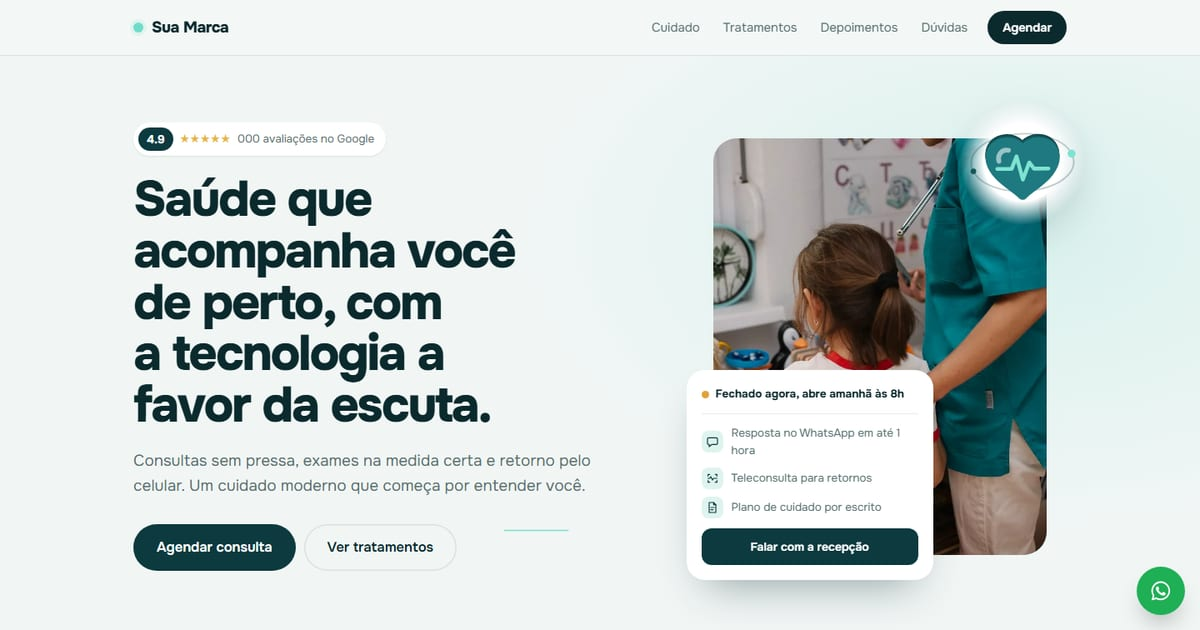
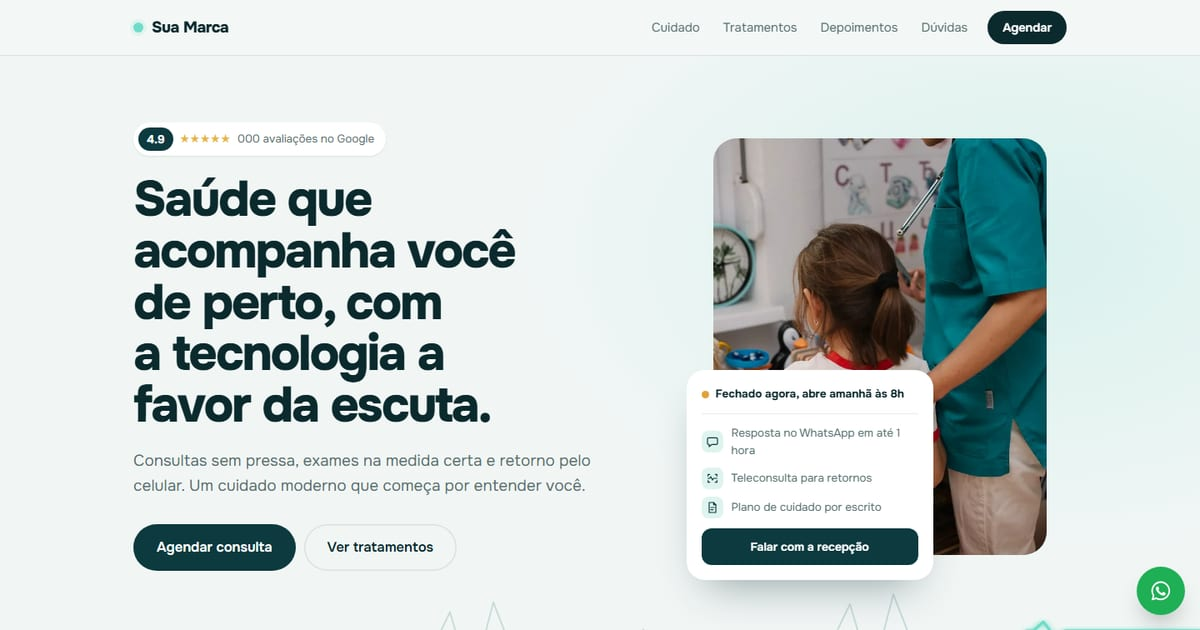
Topo: monitor cardíaco animado no lugar do coração 3D

Changed region(s): [[0.8017, 0.181, 0.8942, 0.3619], [0.8325, 0.9651, 1.0, 1.0], [0.4317, 0.8143, 0.4625, 0.8444]]

diff --git a/app/app.vue b/app/app.vue
@@ -98,7 +98,9 @@ const mover = (dir: number) => trilho.value?.scrollBy({ left: dir * (trilho.valu
       <!-- HERO -->
       <section class="hero">
         <svg class="pulse" viewBox="0 0 1440 220" preserveAspectRatio="none" aria-hidden="true">
-          <path d="M0 130 H420 l26-64 34 128 30-150 26 86 H760 l18-30 22 44 18-14 H1440" />
+          <defs><filter id="brilho" x="-5%" y="-50%" width="110%" height="200%"><feGaussianBlur stdDeviation="4" result="b" /><feMerge><feMergeNode in="b" /><feMergeNode in="SourceGraphic" /></feMerge></filter></defs>
+          <path class="pulse-base" pathLength="1000" d="M0 130 H300 l14-20 14 34 12-14 H520 l20-70 26 150 26-170 22 96 16-22 H760 l12-18 14 30 12-12 H1000 l20-70 26 150 26-170 22 96 16-22 H1240 l12-18 14 30 12-12 H1440" />
+          <path class="pulse-traco" pathLength="1000" filter="url(#brilho)" d="M0 130 H300 l14-20 14 34 12-14 H520 l20-70 26 150 26-170 22 96 16-22 H760 l12-18 14 30 12-12 H1000 l20-70 26 150 26-170 22 96 16-22 H1240 l12-18 14 30 12-12 H1440" />
         </svg>
         <div class="wrap hero-grid">
           <div class="hero-copy">
@@ -112,7 +114,6 @@ const mover = (dir: number) => trilho.value?.scrollBy({ left: dir * (trilho.valu
           </div>
           <div class="hero-card">
             <img class="ph ph-portrait hero-img" :src="`${base}fotos/acompanhamento.webp`" width="1200" height="801" alt="Profissional de saúde atendendo uma criança acompanhada da mãe" fetchpriority="high">
-            <div class="hero-3d" title="Arraste para girar"><Icone3D tipo="coracao" /></div>
             <div class="atend">
               <p class="atend-status" :class="{ aberto: status?.aberto }"><i />{{ status?.texto || 'Atendimento com hora marcada' }}</p>
               <ul>

diff --git a/app/assets/css/main.css b/app/assets/css/main.css
@@ -276,3 +276,19 @@ img.ph, .tr-painel img, .tr-lista img{ height:auto; }
 }
 .tr-lista button{ min-height:76px; }
 .tr-lista img{ width:72px; height:56px; }
+
+/* ===== v6: monitor cardíaco animado no topo ===== */
+.hero-3d{ display:none; }
+.pulse{ left:0; right:0; width:100%; top:auto; bottom:18%; height:200px; z-index:0; opacity:1; fill:none; stroke-dasharray:none; stroke-dashoffset:0; animation:none; }
+.pulse path{ fill:none; stroke-linecap:round; stroke-linejoin:round; vector-effect:non-scaling-stroke; }
+.pulse-base{ stroke:rgba(21,98,106,.14); stroke-width:2; }
+.pulse-traco{ stroke:var(--mint); stroke-width:3; stroke-dasharray:140 860; stroke-dashoffset:1000; animation:monitor 3.6s linear infinite; }
+@keyframes monitor{ to{ stroke-dashoffset:0; } }
+.hero-grid{ position:relative; z-index:1; }
+@media (max-width:959px){ .pulse{ bottom:auto; top:30%; height:150px; opacity:.8; } }
+@media (prefers-reduced-motion:reduce){ .pulse-traco{ animation:none; stroke-dasharray:none; stroke:rgba(111,220,201,.6); } }
+.hero{ padding-bottom:150px; }
+.pulse{ top:auto; bottom:6px; height:130px; }
+.pulse-base{ stroke:rgba(21,98,106,.18); }
+.pulse-traco{ stroke-width:3.5; stroke-dasharray:180 820; }
+@media (max-width:959px){ .hero{ padding-bottom:110px; } .pulse{ top:auto; bottom:0; height:100px; opacity:1; } }
